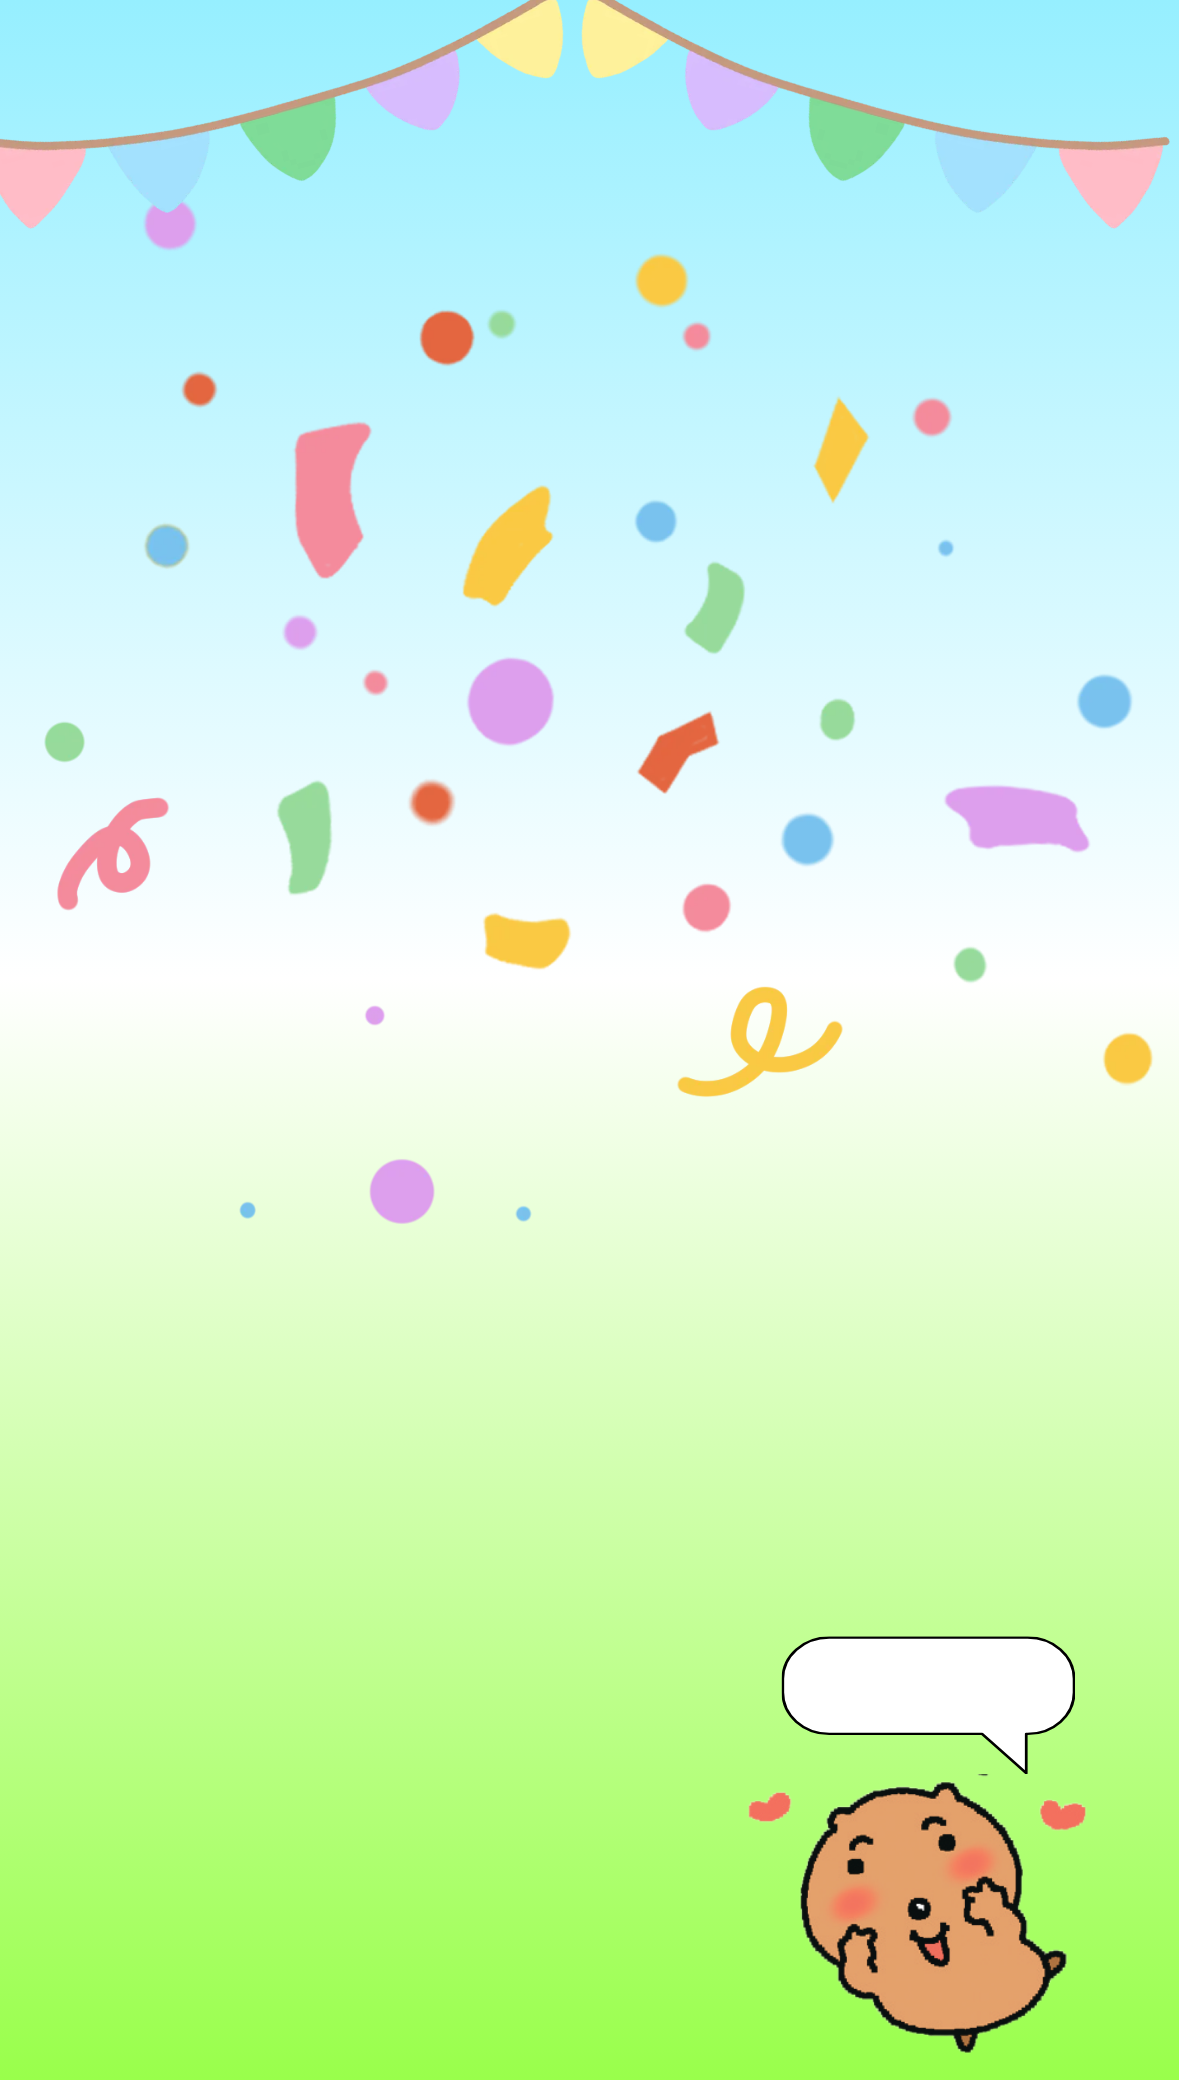
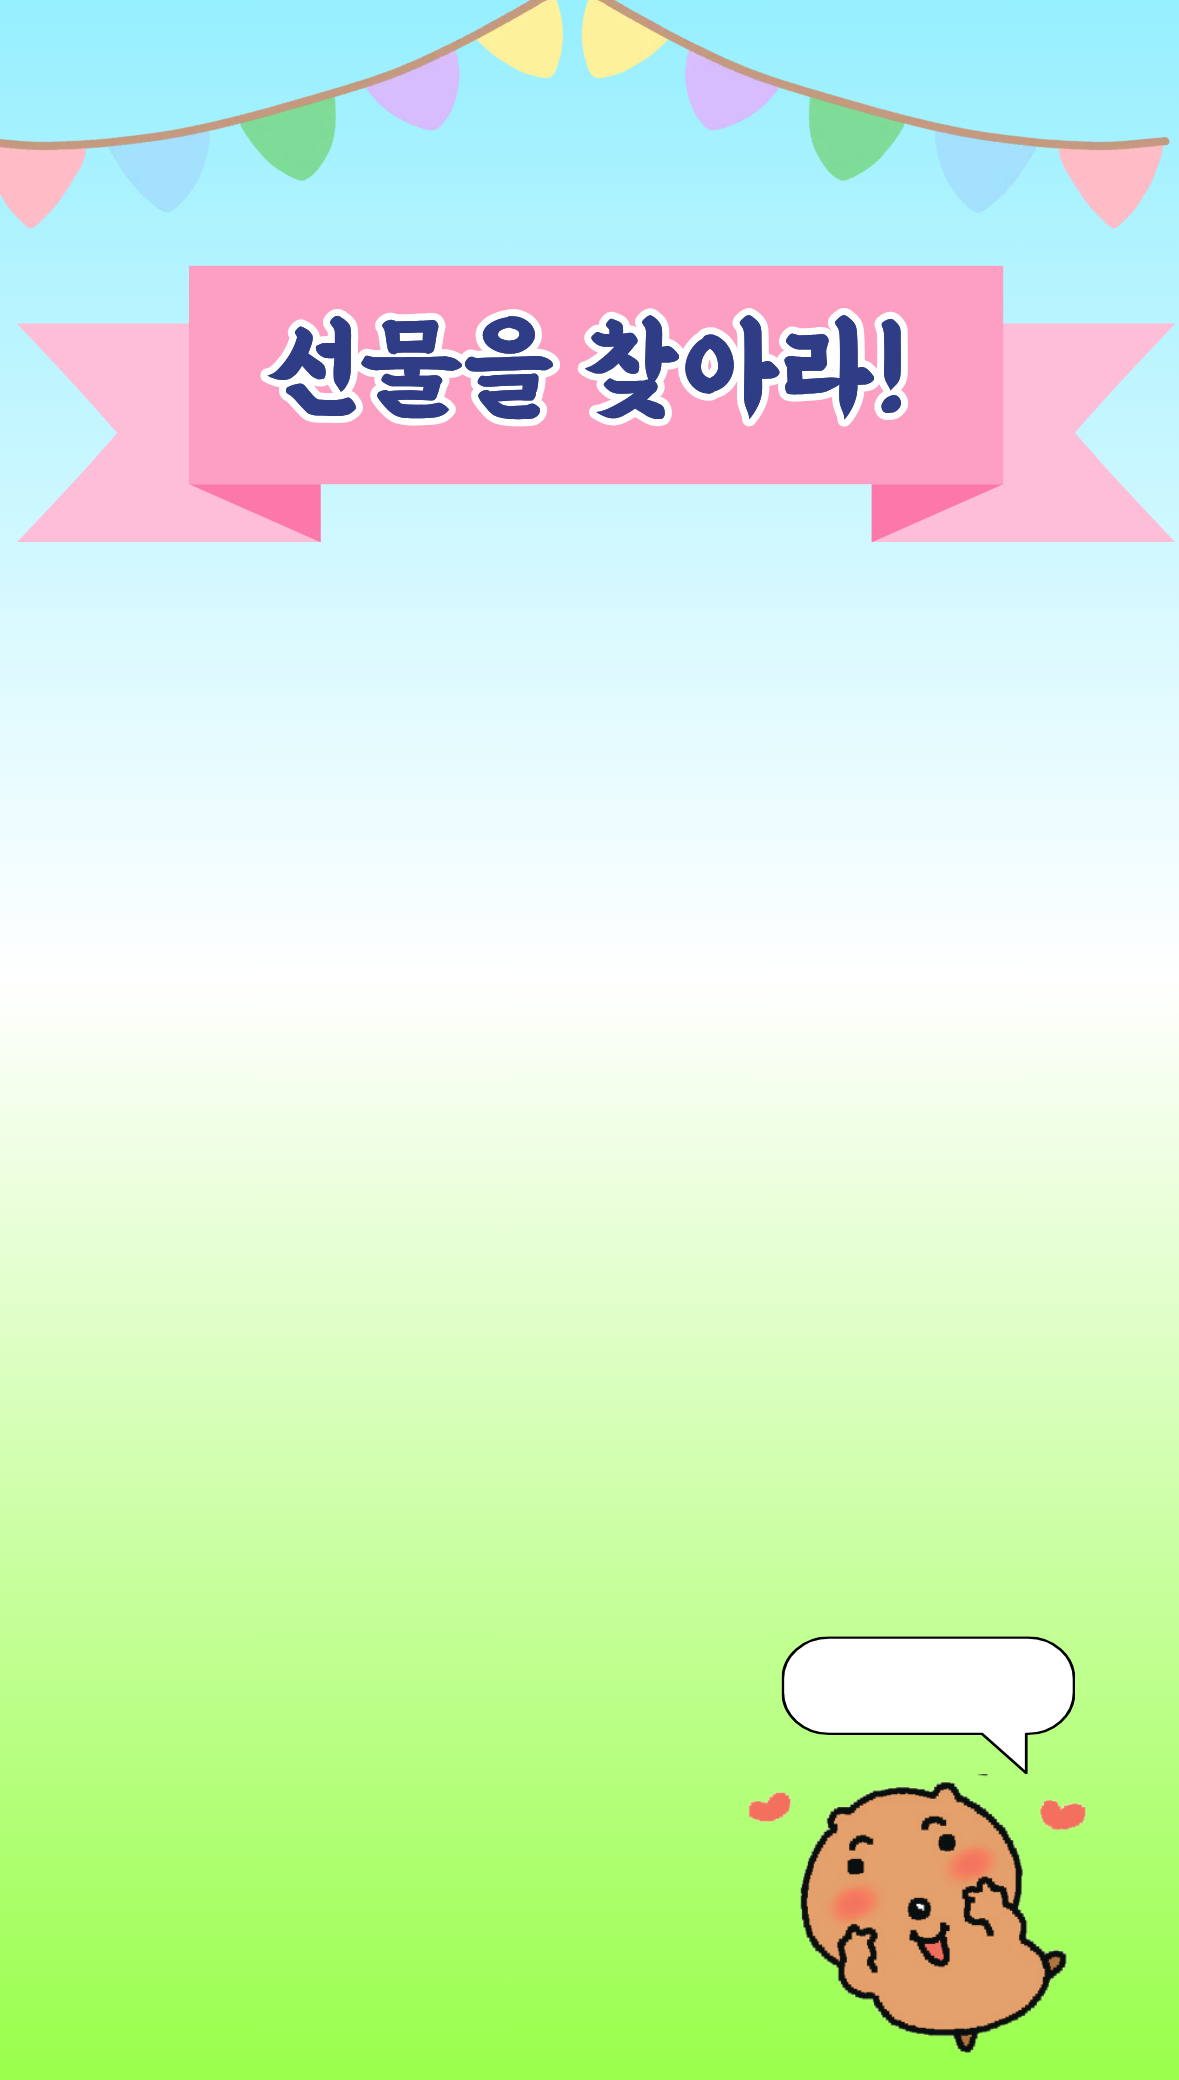
Adjust page6 hint text and add roulette bgm

diff --git a/page6.html b/page6.html
@@ -166,7 +166,7 @@
 </head>
 <body>
   <div class="shell-wrap" id="shellWrap">
-    <p class="shell-hint" id="shellHint">선물이 어디 있을까요? 잘 보세요!</p>
+    <p class="shell-hint" id="shellHint"></p>
     <div class="shell-game" id="shellGame">
       <button class="cup" id="cup0" disabled>
         <span class="cup-box">📦</span>
@@ -186,12 +186,50 @@
   <img class="gift-popup" id="giftPopup" src="images/gift-popup.png" alt="">
   <button class="next-btn" id="nextBtn">다음으로</button>
 
+  <audio id="bgMusic" src="mp3/룰렛.mp3" loop></audio>
+
   <script>
     const shellWrap = document.getElementById('shellWrap');
     const shellHint = document.getElementById('shellHint');
     const cups = [0, 1, 2].map((i) => document.getElementById('cup' + i));
     const giftPopup = document.getElementById('giftPopup');
     const nextBtn = document.getElementById('nextBtn');
+    const bgMusic = document.getElementById('bgMusic');
+
+    const bgTrack = bgMusic.getAttribute('src');
+
+    (function resumeBgMusic() {
+      const savedTrack = sessionStorage.getItem('bgMusicTrack');
+      const savedTime = parseFloat(sessionStorage.getItem('bgMusicTime') || '0');
+      const savedTimestamp = parseFloat(sessionStorage.getItem('bgMusicTimestamp') || '0');
+      if (savedTrack !== bgTrack || !savedTimestamp) return;
+
+      const applyTime = () => {
+        let t = savedTime + (Date.now() - savedTimestamp) / 1000;
+        if (bgMusic.duration && isFinite(bgMusic.duration)) {
+          t = t % bgMusic.duration;
+        }
+        bgMusic.currentTime = t;
+      };
+      if (bgMusic.readyState >= 1) {
+        applyTime();
+      } else {
+        bgMusic.addEventListener('loadedmetadata', applyTime, { once: true });
+      }
+    })();
+
+    function tryPlayBgMusic() {
+      bgMusic.play().catch(() => {});
+    }
+    tryPlayBgMusic();
+    document.addEventListener('click', tryPlayBgMusic, { once: true });
+    document.addEventListener('touchstart', tryPlayBgMusic, { once: true });
+
+    window.addEventListener('pagehide', () => {
+      sessionStorage.setItem('bgMusicTrack', bgTrack);
+      sessionStorage.setItem('bgMusicTime', bgMusic.currentTime);
+      sessionStorage.setItem('bgMusicTimestamp', Date.now());
+    });
 
     document.querySelectorAll('button').forEach((btn) => {
       btn.addEventListener('click', () => {
@@ -278,7 +316,6 @@
           cups.forEach((c) => { c.disabled = true; });
           new Audio('mp3/당첨.mp3').play().catch(() => {});
           for (let s = 0; s < 10; s++) spawnSpark();
-          shellHint.textContent = '';
 
           setTimeout(() => {
             shellWrap.classList.add('finished');
